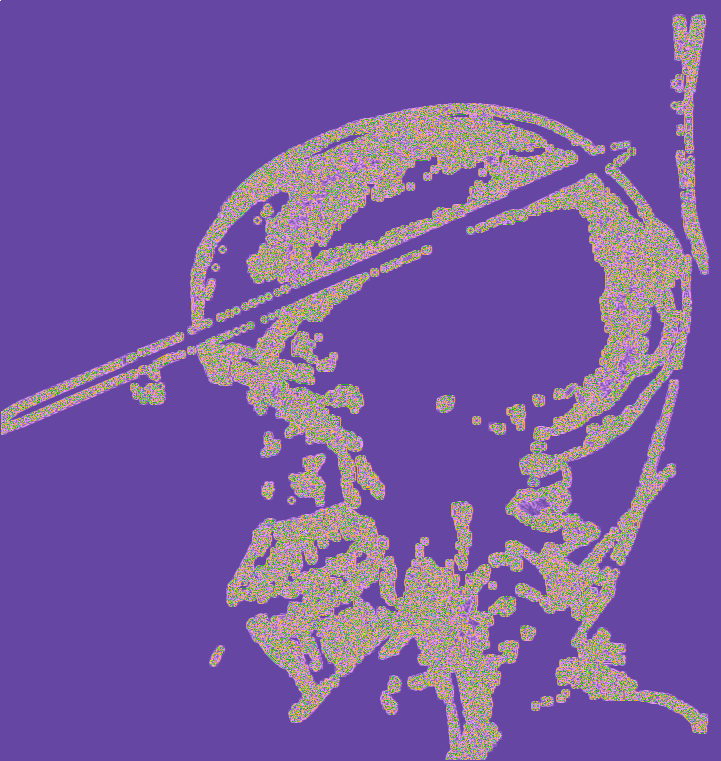
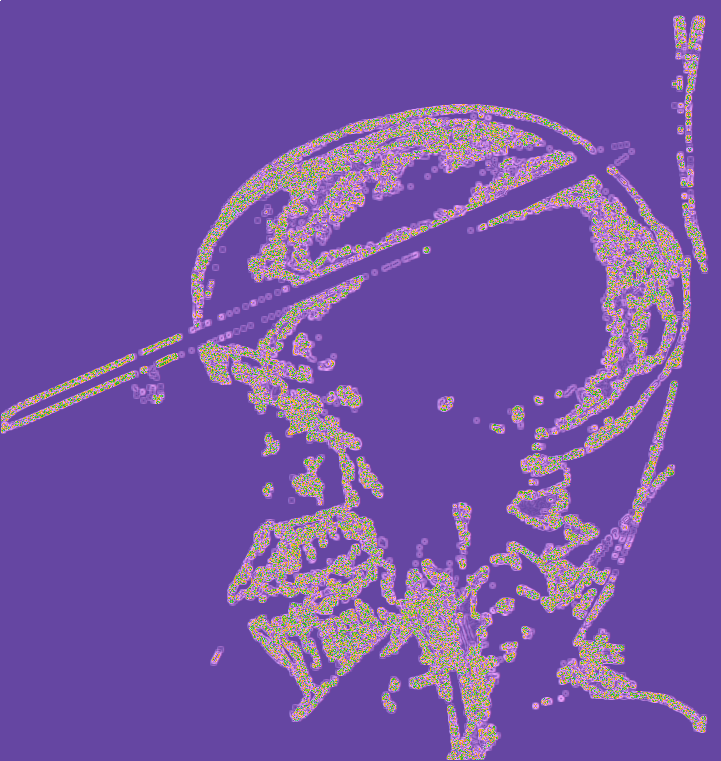
SGS

Changed region(s): [[0.0, 0.0, 1.0, 1.0], [0.2746, 0.8463, 0.3356, 0.8765], [0.6103, 0.5138, 0.6408, 0.544]]

diff --git a/1course.c b/1course.c
@@ -167,8 +167,8 @@ int main() {
 
     preparation(image, w, h);
     fSobel(image, image_0, w, h);
-    fSobel(image_0, image_4, w, h);
-    fGauss(image_4, image_5, w, h);
+    //fSobel(image_0, image_4, w, h);
+    fGauss(image_0, image_5, w, h);
     fSobel(image_5, image_1, w, h);
     colouring(image_1, data, w, h, n);
   /*  int* comps = (int*)malloc((n*w*h)*sizeof(int));
